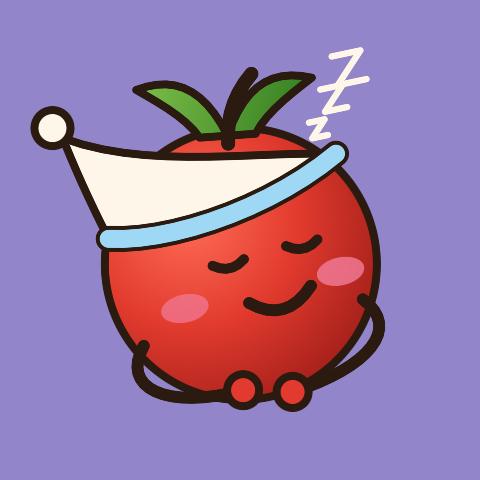
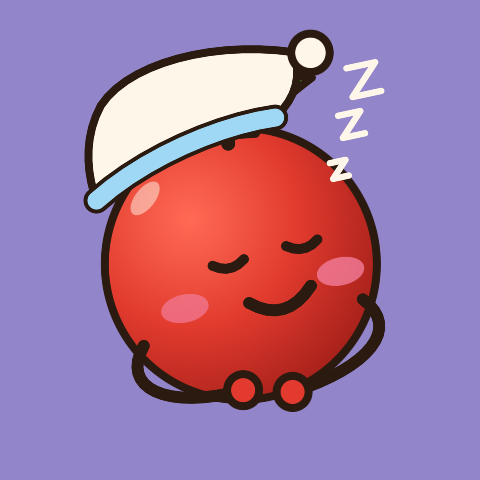
fix: match nightcap and Z drift to approved design

Changed region(s): [[0.0625, 0.0625, 0.8125, 0.5312]]

diff --git a/macos/Throwntom/Sources/ThrowntomUI/Mascot/HeldPropView.swift b/macos/Throwntom/Sources/ThrowntomUI/Mascot/HeldPropView.swift
@@ -129,26 +129,27 @@ enum HeldProps {
     path.line(units, 88, 22)
   }
 
-  /// The nightcap: a cone standing on its brim, leaning to the far side of the crown so the stem
-  /// and both leaves stay above it. A cap drawn straight over the top would leave a red ball with a
-  /// face on it, and the crown is the whole of what says tomato.
+  /// The nightcap: a cone pulled down over the crown, its brim riding the top of the head and its
+  /// point flopped to the near side. The stem and both leaves sleep under it — the cap replaces the
+  /// crown for the night rather than perching beside it.
   static let nightcapCone = DesignShape { path, units in
-    path.move(units, 19, 43)
-    path.curve(units, 16, 32, 14, 22, 13, 16)
-    path.curve(units, 32, 28, 58, 29, 79, 34)
-    path.curve(units, 60, 44, 34, 47, 19, 43)
+    path.move(units, 18, 33)
+    path.curve(units, 17, 26, 18, 17, 24, 10)
+    path.curve(units, 33, 1, 55, 0, 74, 7)
+    path.curve(units, 74.5, 13, 72.5, 18, 66, 22)
+    path.curve(units, 52, 21, 32, 25, 18, 33)
     path.closeSubpath()
   }
 
   /// The brim, along the bottom edge of the cone and stroked over it, so the band reads as turned
   /// up rather than as a line ruled across the cap.
   static let nightcapBrim = DesignShape { path, units in
-    path.move(units, 19, 43)
-    path.curve(units, 34, 47, 60, 44, 79, 34)
+    path.move(units, 18, 33)
+    path.curve(units, 32, 25, 52, 21, 66, 22)
   }
 
   static let nightcapBobble = DesignShape { path, units in
-    path.circle(units, 11, 13, 4.5)
+    path.circle(units, 78, 8, 4.8)
   }
 
   /// How many Z's drift off the cap at once.
@@ -219,10 +220,11 @@ enum HeldProps {
 
   // MARK: Private
 
-  /// Where a Z sets off — clear of the near shoulder, above the cap's brim — and how far it travels
-  /// over its run: up and away from the face, into the corner the "!" used to shout from.
-  private static let zedStart = CGPoint(76, 27)
-  private static let zedDrift = CGSize(width: 16, height: -20)
+  /// Where a Z sets off — beside the cheek, under the cap's flopped point — and how far it travels
+  /// over its run: up and away from the face, into the corner the "!" used to shout from. The climb
+  /// is long enough that Z's a third of a cycle apart never touch, so they read as three.
+  private static let zedStart = CGPoint(79, 38)
+  private static let zedDrift = CGSize(width: 16, height: -31)
   private static let zedHalfSizeRange: ClosedRange<Double> = 2 ... 4.5
   /// The last fraction of a run, over which the Z fades out.
   private static let zedFadeOut = 0.25

diff --git a/DESIGN.md b/DESIGN.md
@@ -346,7 +346,7 @@ a menu has to be guessed at before it can be opened.
 
 ### Mascot (macOS)
 
-The README tomato drawn in code on a 100×100 canvas scaled to 200pt: a radial-gradient body with a 2-unit `macos-outline` stroke, stem and two gradient leaves, a cream glint, two blush cheeks, eyes with a white catchlight, a mouth, and two thin line arms (3-unit `macos-outline`) that hang from one shoulder per side, ending in round `mascot-body` hands. The whole character is rotated 12° counter-clockwise and the face is drawn three-quarter, features shifted toward the near side, so it reads as turned slightly away like the README sticker. One pose per phase — laptop for work, the same laptop and a worn headset for a meeting, cold drink for short break, reading on a sofa for long break, a cheeseburger in both hands for lunch, a yo-yo for idle, arms up for awaiting confirm, eyes closed and still for paused, asleep in a nightcap for a running snooze, a yanked cable for disconnected — with props always drawn so the tomato faces them, not the viewer. Lunch and the long break share a ground, so the pose is the second thing that separates them after the name, and a meeting and work share one the same way. The asleep pose is the one the daemon's phase does not choose — a snooze is reported beside the state — and it is drawn as the opposite of the awaiting-confirm pose it stands in for: eyes shut, the `!` put down, arms folded low, and the jump gone. Its cap leans to the far side of the crown so the stem and both leaves stay showing; a cap over the top of them leaves a red ball with a face on it. A worn prop is neither a held prop nor furniture: it is drawn inside the character transform, so it turns and breathes with the body, where furniture stays put in canvas coordinates. `docs/designs/mascot-screenshots/` holds the rendered poses, regenerated by `tools/mascot-snap.sh`. Idle motion (blink, ±2° breathing bob, the yo-yo's drop and return, a jump on awaiting confirm, three Z's drifting up off the nightcap on a 4-second cycle over the 3-second breath) is small and off under Reduce Motion. The Z's are staggered by thirds of that cycle, so the still frame Reduce Motion draws is a small-to-large `zZZ` rather than a blank space or three of the same Z.
+The README tomato drawn in code on a 100×100 canvas scaled to 200pt: a radial-gradient body with a 2-unit `macos-outline` stroke, stem and two gradient leaves, a cream glint, two blush cheeks, eyes with a white catchlight, a mouth, and two thin line arms (3-unit `macos-outline`) that hang from one shoulder per side, ending in round `mascot-body` hands. The whole character is rotated 12° counter-clockwise and the face is drawn three-quarter, features shifted toward the near side, so it reads as turned slightly away like the README sticker. One pose per phase — laptop for work, the same laptop and a worn headset for a meeting, cold drink for short break, reading on a sofa for long break, a cheeseburger in both hands for lunch, a yo-yo for idle, arms up for awaiting confirm, eyes closed and still for paused, asleep in a nightcap for a running snooze, a yanked cable for disconnected — with props always drawn so the tomato faces them, not the viewer. Lunch and the long break share a ground, so the pose is the second thing that separates them after the name, and a meeting and work share one the same way. The asleep pose is the one the daemon's phase does not choose — a snooze is reported beside the state — and it is drawn as the opposite of the awaiting-confirm pose it stands in for: eyes shut, the `!` put down, arms folded low, and the jump gone. Its cap is pulled down over the crown like a real nightcap — the brim rides the top of the head, the point flops to the near side with the bobble past its tip, and the stem and both leaves sleep under it; the Z's never touch one another, so they read as three. A worn prop is neither a held prop nor furniture: it is drawn inside the character transform, so it turns and breathes with the body, where furniture stays put in canvas coordinates. `docs/designs/mascot-screenshots/` holds the rendered poses, regenerated by `tools/mascot-snap.sh`. Idle motion (blink, ±2° breathing bob, the yo-yo's drop and return, a jump on awaiting confirm, three Z's drifting up off the nightcap on a 4-second cycle over the 3-second breath) is small and off under Reduce Motion. The Z's are staggered by thirds of that cycle, so the still frame Reduce Motion draws is a small-to-large `zZZ` rather than a blank space or three of the same Z.
 
 ### Chip (macOS)
 
